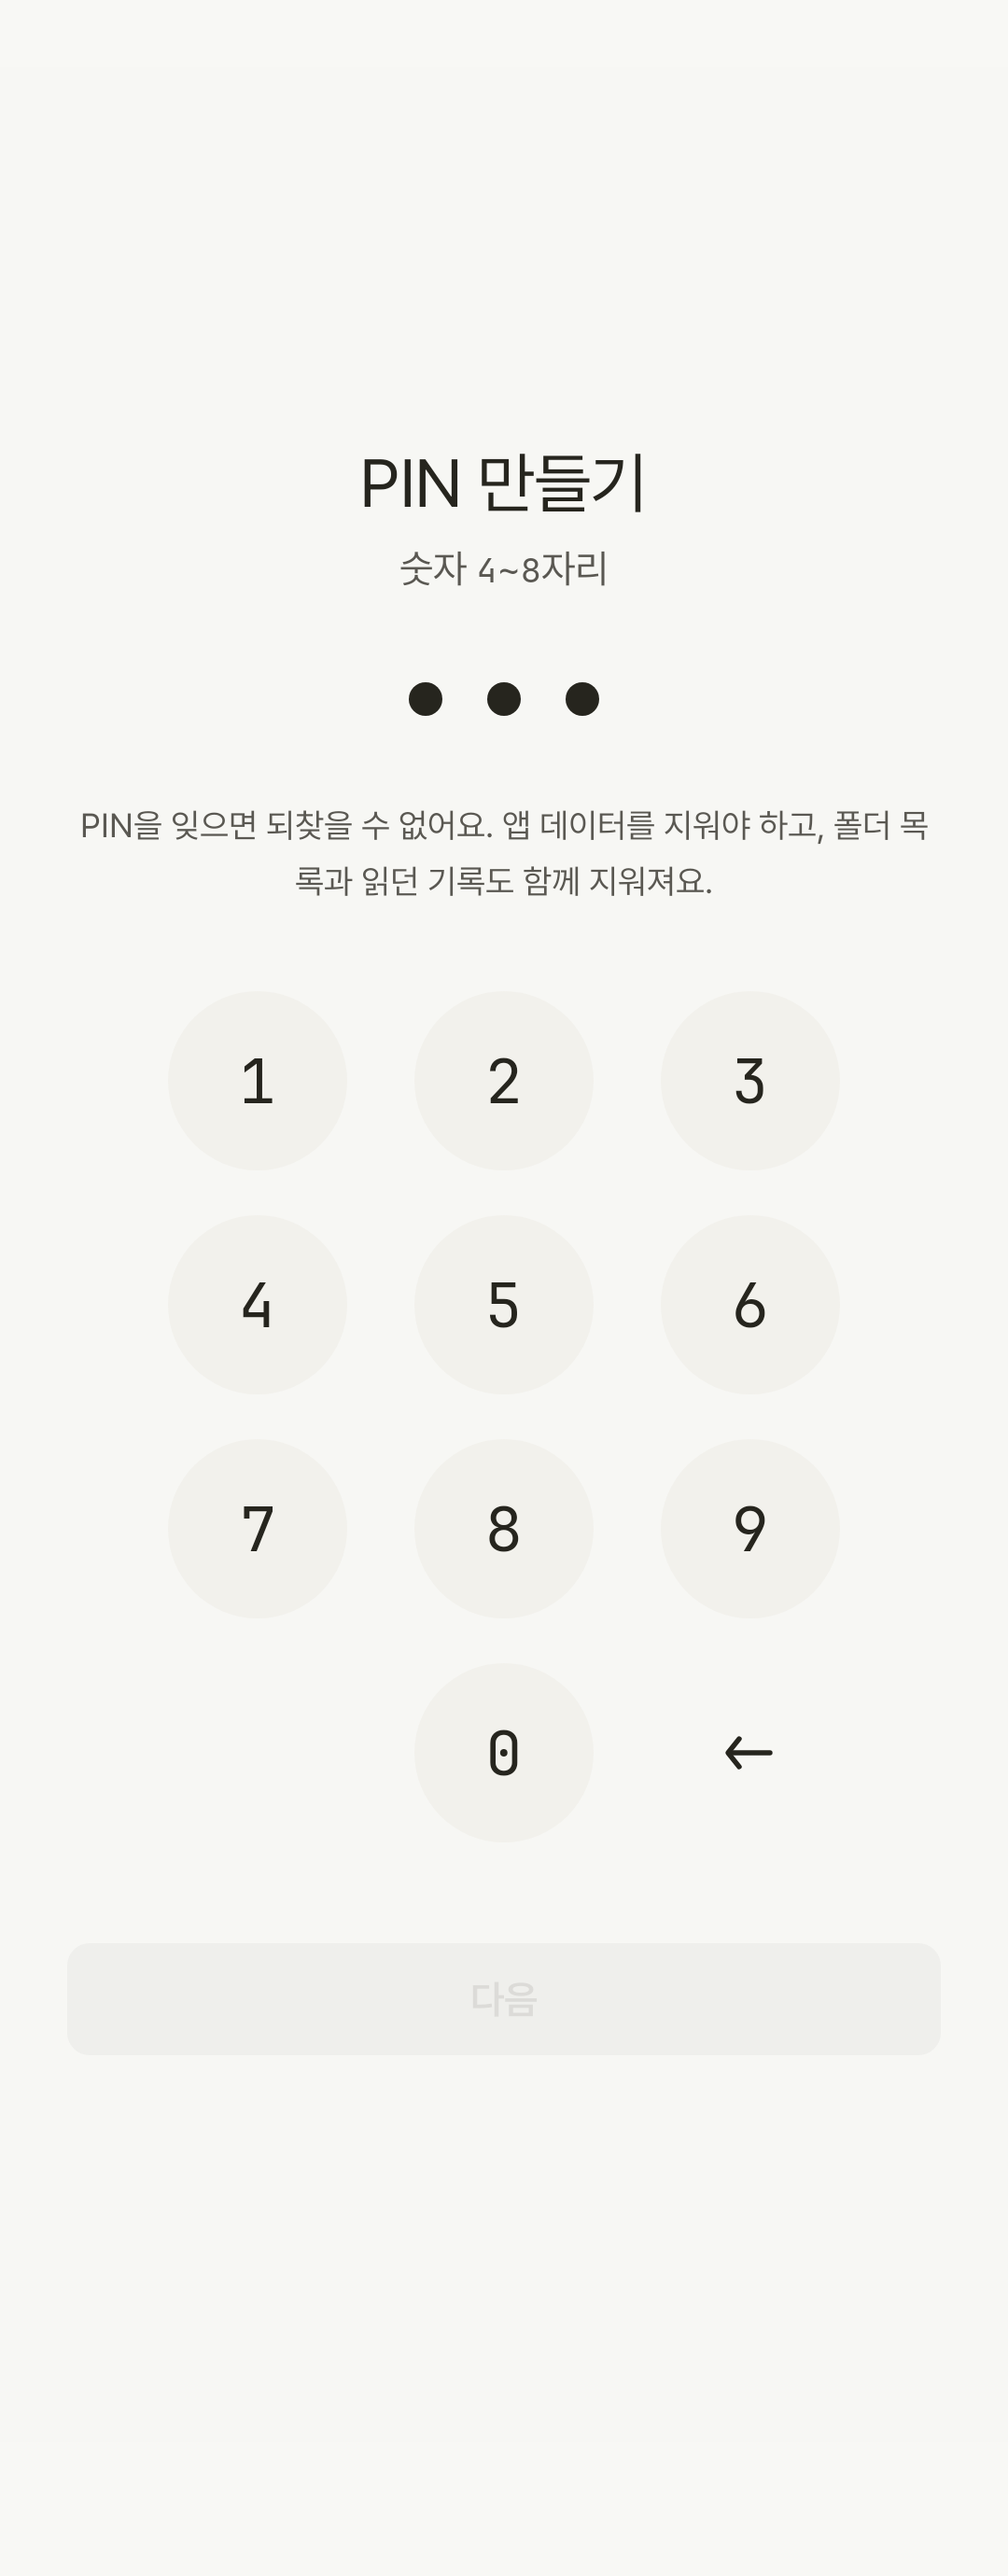
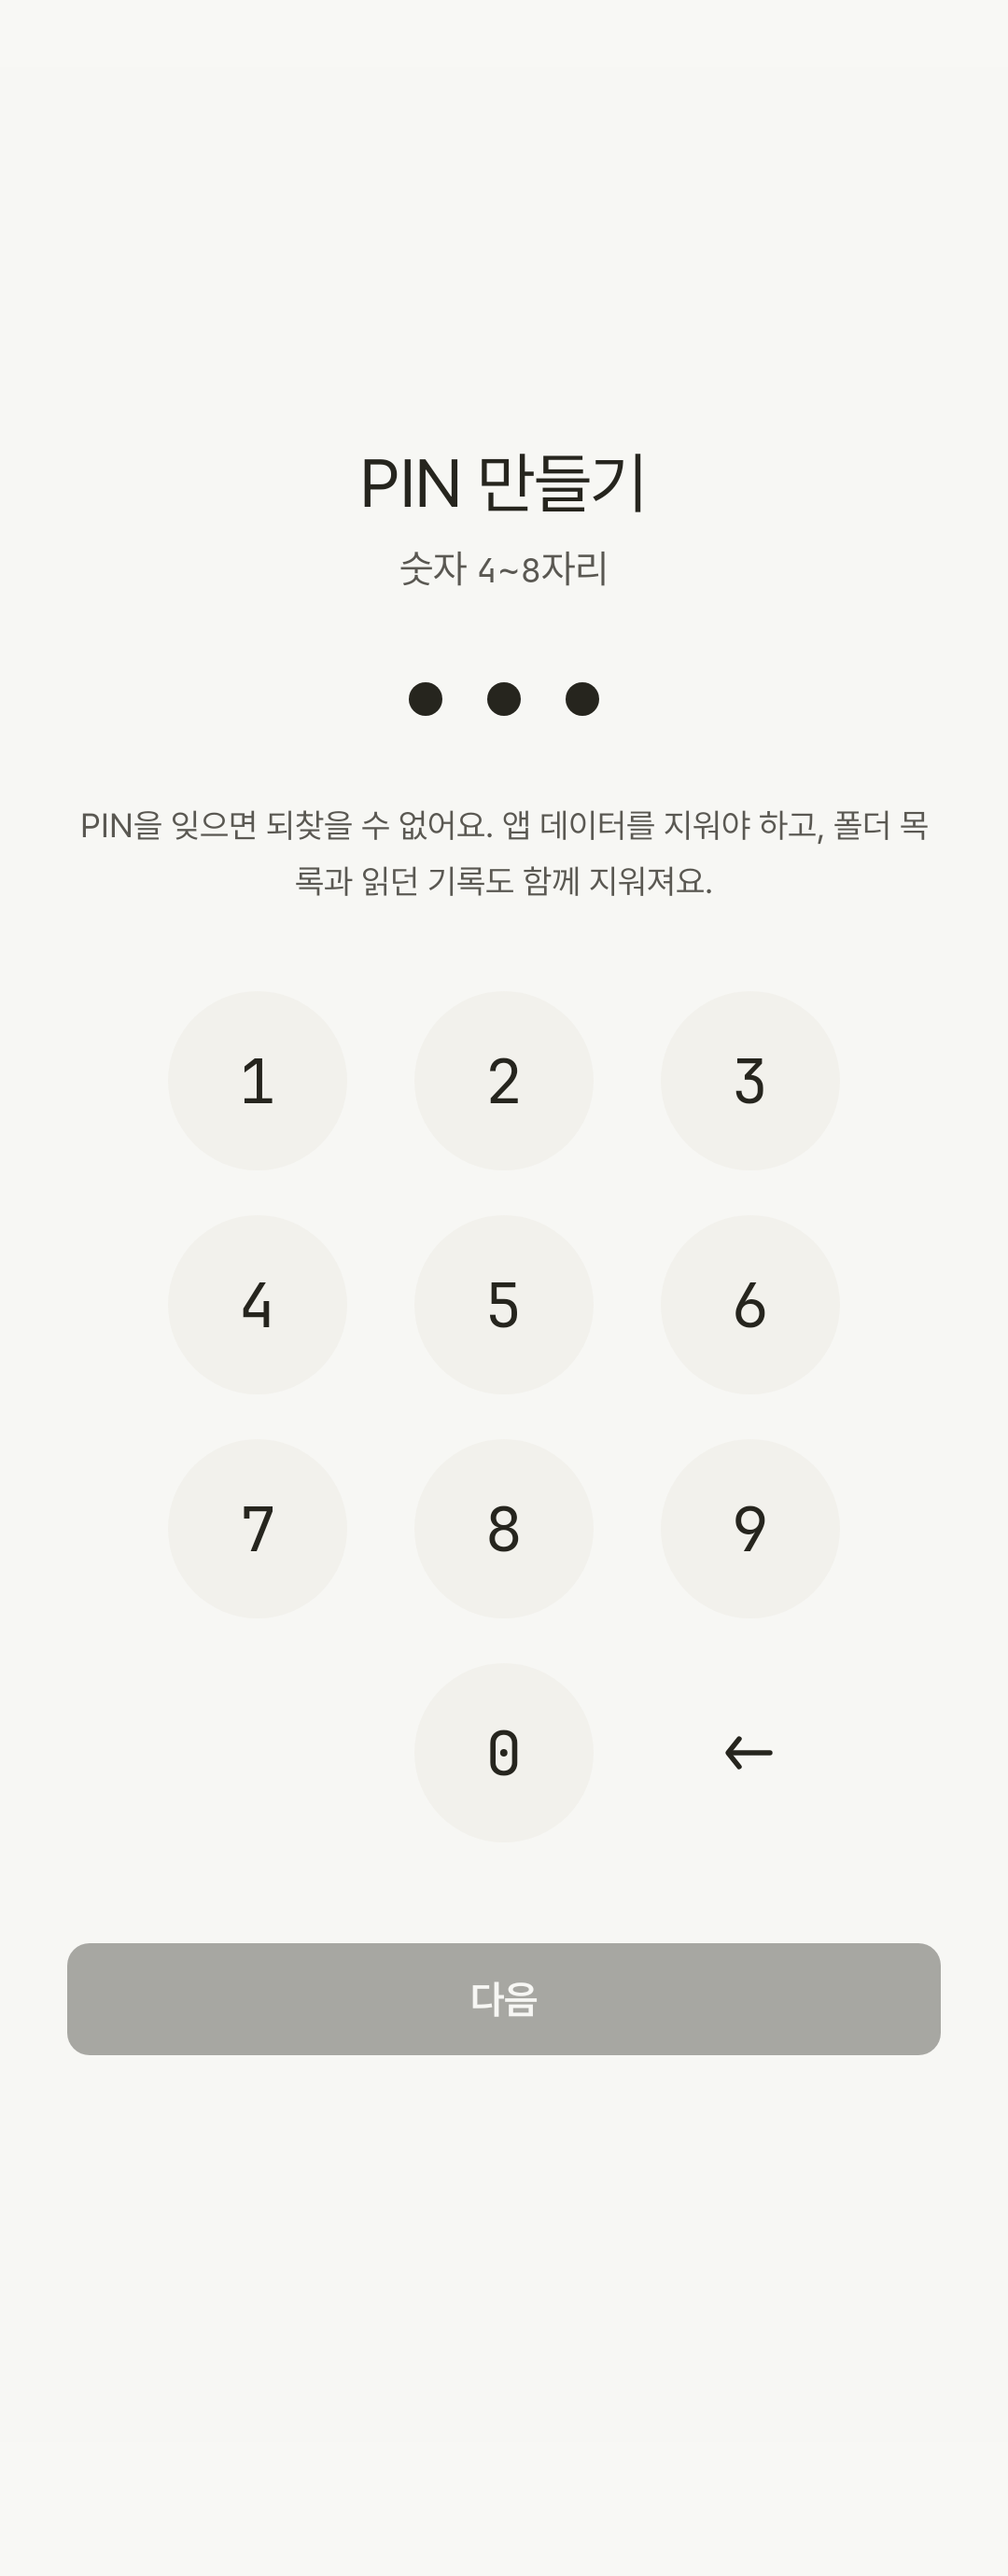
fix(lock): close relock overlay and exempt leaks from review

Changed region(s): [[0.0611, 0.7478, 0.9472, 0.8101]]

diff --git a/app/src/main/java/org/parkjw/apps/pdfbook/MainActivity.kt b/app/src/main/java/org/parkjw/apps/pdfbook/MainActivity.kt
@@ -94,6 +94,11 @@ class MainActivity : ComponentActivity() {
         AppLockProcess.state.onStart(SystemClock.elapsedRealtime())
     }
 
+    override fun onResume() {
+        super.onResume()
+        AppLockProcess.state.onResume()
+    }
+
     override fun onStop() {
         AppLockProcess.state.onStop(isChangingConfigurations, SystemClock.elapsedRealtime())
         if (shouldResetPeekOnStop(isChangingConfigurations)) {
@@ -103,20 +108,30 @@ class MainActivity : ComponentActivity() {
     }
 
     override fun startActivity(intent: Intent, options: Bundle?) {
-        noteExempt(intent)
-        super.startActivity(intent, options)
+        val exempt = noteExempt(intent)
+        try {
+            super.startActivity(intent, options)
+        } catch (error: RuntimeException) {
+            if (exempt) AppLockProcess.state.cancelSystemReturn()
+            throw error
+        }
     }
 
     @Suppress("DEPRECATION")
     override fun startActivityForResult(intent: Intent, requestCode: Int, options: Bundle?) {
-        noteExempt(intent)
-        super.startActivityForResult(intent, requestCode, options)
+        val exempt = noteExempt(intent)
+        try {
+            super.startActivityForResult(intent, requestCode, options)
+        } catch (error: RuntimeException) {
+            if (exempt) AppLockProcess.state.cancelSystemReturn()
+            throw error
+        }
     }
 
-    private fun noteExempt(intent: Intent?) {
-        if (isExemptSystemIntent(intent?.action, intent?.type)) {
-            AppLockProcess.state.expectSystemReturn()
-        }
+    private fun noteExempt(intent: Intent?): Boolean {
+        if (!isExemptSystemIntent(intent?.action, intent?.type)) return false
+        AppLockProcess.state.expectSystemReturn()
+        return true
     }
 
     override fun onCreate(savedInstanceState: Bundle?) {
@@ -129,7 +144,10 @@ class MainActivity : ComponentActivity() {
             val scope = rememberCoroutineScope()
             val lockRepo = remember { LockRepository(context) }
             val lockConfig = lockRepo.config.collectAsState(initial = null).value
-            val biometricAvailable = remember { canAuthenticateBiometric(context) }
+            var biometricAvailable by remember { mutableStateOf(canAuthenticateBiometric(context)) }
+            LifecycleEventEffect(Lifecycle.Event.ON_RESUME) {
+                biometricAvailable = canAuthenticateBiometric(context)
+            }
             val session = AppLockProcess.state
             SyncAppLanguage(
                 ready = settingsState.value != null,
@@ -155,7 +173,9 @@ class MainActivity : ComponentActivity() {
                     color = MaterialTheme.colorScheme.background,
                 ) {
                     SideEffect {
-                        if (lockConfig != null) {
+                        if (lockConfig == null) {
+                            setRecentsScreenshotEnabled(false)
+                        } else {
                             applyRecentsScreenshot(lockConfig) { setRecentsScreenshotEnabled(it) }
                         }
                     }

diff --git a/app/src/test/java/org/parkjw/apps/pdfbook/lock/LockScreensTest.kt b/app/src/test/java/org/parkjw/apps/pdfbook/lock/LockScreensTest.kt
@@ -1,10 +1,12 @@
 package org.parkjw.apps.pdfbook.lock
 
+import androidx.compose.foundation.clickable
 import androidx.compose.material3.Text
 import androidx.compose.runtime.getValue
 import androidx.compose.runtime.mutableStateOf
 import androidx.compose.runtime.saveable.rememberSaveable
 import androidx.compose.runtime.setValue
+import androidx.compose.ui.Modifier
 import androidx.compose.ui.test.assertCountEquals
 import androidx.compose.ui.test.assertIsEnabled
 import androidx.compose.ui.test.assertIsNotEnabled
@@ -95,6 +97,57 @@ class LockScreensTest {
         session.unlock()
         composeRule.waitForIdle()
         composeRule.onNodeWithText("book-uri").assertExists()
+    }
+
+    @Test
+    fun l2_relockRemovesAppFromCompositionAndRestoresSaveable() {
+        val session = AppLockState()
+        session.unlock()
+        val config = LockConfig(mode = AppLockMode.Pin, pinHash = "h", pinSalt = "s", pinLength = 4)
+        composeRule.setContent {
+            PdfBookTheme(themeMode = ThemeMode.Light) {
+                LockGate(
+                    config = config,
+                    session = session,
+                    canAuthenticate = false,
+                    verify = { pin, _ -> pin.fill('\u0000'); PinVerify.Wrong },
+                    onUnlocked = { session.unlock() },
+                    onBack = {},
+                    onBlockedChange = {},
+                ) {
+                    var uri by rememberSaveable { mutableStateOf("first") }
+                    Text(uri, Modifier.clickable { uri = "kept" })
+                }
+            }
+        }
+        composeRule.onNodeWithText("first").performClick()
+        composeRule.onNodeWithText("kept").assertExists()
+        session.onStop(isChangingConfigurations = false, nowElapsedMs = 0L)
+        composeRule.waitForIdle()
+        assertTrue(session.everUnlocked)
+        composeRule.onNodeWithText("kept").assertDoesNotExist()
+        composeRule.onNodeWithText(text(R.string.lock_title)).assertExists()
+        session.unlock()
+        composeRule.waitForIdle()
+        composeRule.onNodeWithText("kept").assertExists()
+    }
+
+    @Test
+    fun l4_fingerprintKeyHiddenWhenBiometricUnavailable() {
+        composeRule.setContent {
+            PdfBookTheme(themeMode = ThemeMode.Light) {
+                LockScreen(
+                    config = LockConfig(mode = AppLockMode.Biometric, pinHash = "h", pinSalt = "s", pinLength = 4),
+                    session = AppLockState(),
+                    canAuthenticate = false,
+                    verify = { pin, _ -> pin.fill('\u0000'); PinVerify.Wrong },
+                    onUnlocked = {},
+                    onBack = {},
+                )
+            }
+        }
+        composeRule.onNodeWithText(text(R.string.lock_title)).assertExists()
+        composeRule.onNodeWithContentDescription(text(R.string.app_lock_biometric)).assertDoesNotExist()
     }
 
     @Test

diff --git a/app/src/main/java/org/parkjw/apps/pdfbook/lock/AppLockState.kt b/app/src/main/java/org/parkjw/apps/pdfbook/lock/AppLockState.kt
@@ -20,7 +20,9 @@ class AppLockState {
         private set
 
     private var exemptPending = false
+    private var exemptStopped = false
     private var exemptStopElapsedMs = 0L
+    private var handledPromptNonce = 0
     private var promptConsumed = false
     private var promptGeneration = 0
     private var signal: CancellationSignal? = null
@@ -34,16 +36,28 @@ class AppLockState {
         exemptPending = true
     }
 
+    fun cancelSystemReturn() {
+        exemptPending = false
+        exemptStopped = false
+    }
+
+    fun onResume() {
+        if (exemptPending && !exemptStopped) cancelSystemReturn()
+    }
+
     fun onStop(isChangingConfigurations: Boolean, nowElapsedMs: Long) {
         cancelPrompt()
-        if (exemptPending) exemptStopElapsedMs = nowElapsedMs
+        if (exemptPending && !isChangingConfigurations) {
+            exemptStopped = true
+            exemptStopElapsedMs = nowElapsedMs
+        }
         if (shouldLockOnStop(isChangingConfigurations, exemptPending)) lockNow()
     }
 
     fun onStart(nowElapsedMs: Long) {
-        if (!exemptPending) return
+        if (!exemptPending || !exemptStopped) return
         val elapsed = (nowElapsedMs - exemptStopElapsedMs).coerceAtLeast(0L)
-        exemptPending = false
+        cancelSystemReturn()
         if (shouldLockOnReturn(elapsed)) lockNow()
     }
 
@@ -63,6 +77,12 @@ class AppLockState {
         promptNonce++
     }
 
+    fun consumePromptRequest(nonce: Int): Boolean {
+        if (nonce == 0 || nonce <= handledPromptNonce) return false
+        handledPromptNonce = nonce
+        return true
+    }
+
     fun nextPromptGeneration(): Int {
         promptGeneration += 1
         return promptGeneration
@@ -71,7 +91,9 @@ class AppLockState {
     fun isPromptCurrent(generation: Int): Boolean = generation == promptGeneration
 
     fun bindSignal(cancellation: CancellationSignal) {
+        val previous = signal
         signal = cancellation
+        if (previous != null && previous !== cancellation) previous.cancel()
     }
 
     fun cancelPrompt() {
@@ -90,6 +112,8 @@ class AppLockState {
 
     internal fun coldLock() {
         HiddenPeek.reset()
+        cancelPrompt()
+        cancelSystemReturn()
         unlocked = false
         everUnlocked = false
         preferKeypad = false
@@ -98,8 +122,8 @@ class AppLockState {
 
     fun resetForTest() {
         coldLock()
-        exemptPending = false
         exemptStopElapsedMs = 0L
+        handledPromptNonce = 0
         promptGeneration = 0
         lockEpoch = 0
         promptNonce = 0

diff --git a/app/src/main/java/org/parkjw/apps/pdfbook/lock/PinEntry.kt b/app/src/main/java/org/parkjw/apps/pdfbook/lock/PinEntry.kt
@@ -64,7 +64,7 @@ fun LockScreen(
         awaitBiometricPrompt(activity, session, promptTitle, usePin, onUnlocked) { session.showKeypad() }
     }
     LaunchedEffect(nonce) {
-        if (nonce == 0 || activity == null) return@LaunchedEffect
+        if (activity == null || !session.consumePromptRequest(nonce)) return@LaunchedEffect
         awaitBiometricPrompt(activity, session, promptTitle, usePin, onUnlocked) { session.showKeypad() }
     }
     PinEntry(
@@ -74,7 +74,7 @@ fun LockScreen(
         failedAttempts = config.failedAttempts,
         lockoutUntilEpochMs = config.lockoutUntilEpochMs,
         showLockIcon = true,
-        showFingerprint = mode == AppLockMode.Biometric,
+        showFingerprint = mode == AppLockMode.Biometric && canAuthenticate,
         onFingerprint = { session.requestPrompt() },
         verify = verify,
         onSuccess = onUnlocked,
@@ -110,7 +110,7 @@ fun ConfirmPinScreen(
             failedAttempts = config.failedAttempts,
             lockoutUntilEpochMs = config.lockoutUntilEpochMs,
             showLockIcon = true,
-            showFingerprint = config.mode == AppLockMode.Biometric,
+            showFingerprint = config.mode == AppLockMode.Biometric && canAuthenticate,
             onFingerprint = onRequestBiometric,
             verify = verify,
             onSuccess = onSuccess,
@@ -159,18 +159,22 @@ private fun PinEntry(
         buffer.clear()
         busy = true
         scope.launch {
-            when (verify(pin, now())) {
-                PinVerify.Success -> onSuccess()
-                PinVerify.Wrong -> {
-                    wrong = true
-                    clock = now()
+            try {
+                when (verify(pin, now())) {
+                    PinVerify.Success -> onSuccess()
+                    PinVerify.Wrong -> {
+                        wrong = true
+                        clock = now()
+                    }
+                    is PinVerify.Waiting -> {
+                        wrong = false
+                        clock = now()
+                    }
                 }
-                is PinVerify.Waiting -> {
-                    wrong = false
-                    clock = now()
-                }
+            } finally {
+                pin.fill('\u0000')
+                busy = false
             }
-            busy = false
         }
     }
     PinPadScreen(

diff --git a/app/src/test/java/org/parkjw/apps/pdfbook/lock/LockPolicyTest.kt b/app/src/test/java/org/parkjw/apps/pdfbook/lock/LockPolicyTest.kt
@@ -96,6 +96,50 @@ class LockPolicyTest {
     }
 
     @Test
+    fun l3_exemptCancelledWhenResumedWithoutStop() {
+        val state = AppLockState()
+        state.unlock()
+        state.expectSystemReturn()
+        state.onResume()
+        assertFalse(state.pendingExempt())
+        state.onStop(isChangingConfigurations = false, nowElapsedMs = 0L)
+        assertFalse(state.unlocked)
+    }
+
+    @Test
+    fun l3_failedLaunchCancelsExempt() {
+        val state = AppLockState()
+        state.unlock()
+        state.expectSystemReturn()
+        state.cancelSystemReturn()
+        state.onStop(isChangingConfigurations = false, nowElapsedMs = 0L)
+        assertFalse(state.unlocked)
+    }
+
+    @Test
+    fun l3_configChangeKeepsExemptUntilRealReturn() {
+        val state = AppLockState()
+        state.unlock()
+        state.expectSystemReturn()
+        state.onStop(isChangingConfigurations = true, nowElapsedMs = 0L)
+        state.onStart(1_000L)
+        assertTrue(state.pendingExempt())
+        state.onStop(isChangingConfigurations = false, nowElapsedMs = 2_000L)
+        state.onStart(2_000L + SYSTEM_RETURN_GRACE_MS)
+        assertTrue(state.unlocked)
+        assertFalse(state.pendingExempt())
+    }
+
+    @Test
+    fun l4_promptRequestIsConsumedOnce() {
+        val state = AppLockState()
+        assertFalse(state.consumePromptRequest(state.promptNonce))
+        state.requestPrompt()
+        assertTrue(state.consumePromptRequest(state.promptNonce))
+        assertFalse(state.consumePromptRequest(state.promptNonce))
+    }
+
+    @Test
     fun l3_configChangeDoesNotLock() {
         val state = AppLockState()
         state.unlock()

diff --git a/app/src/main/java/org/parkjw/apps/pdfbook/lock/LockGate.kt b/app/src/main/java/org/parkjw/apps/pdfbook/lock/LockGate.kt
@@ -5,7 +5,7 @@ import androidx.compose.foundation.layout.fillMaxSize
 import androidx.compose.runtime.Composable
 import androidx.compose.runtime.SideEffect
 import androidx.compose.ui.Modifier
-import androidx.compose.ui.semantics.clearAndSetSemantics
+import androidx.compose.runtime.saveable.rememberSaveableStateHolder
 
 @Composable
 fun LockGate(
@@ -25,14 +25,11 @@ fun LockGate(
     SideEffect { onBlockedChange(config == null || locked) }
     if (config == null) return
     val showApp = !locking || everUnlocked
+    val saveable = rememberSaveableStateHolder()
     Box(Modifier.fillMaxSize()) {
-        if (showApp) {
-            Box(
-                Modifier
-                    .fillMaxSize()
-                    .then(if (locked) Modifier.clearAndSetSemantics {} else Modifier),
-            ) {
-                app()
+        if (showApp && !locked) {
+            Box(Modifier.fillMaxSize()) {
+                saveable.SaveableStateProvider(APP_STATE_KEY) { app() }
             }
         }
         if (locked) {
@@ -47,3 +44,5 @@ fun LockGate(
         }
     }
 }
+
+private const val APP_STATE_KEY = "app"

diff --git a/app/src/main/java/org/parkjw/apps/pdfbook/ui/theme/ButtonColors.kt b/app/src/main/java/org/parkjw/apps/pdfbook/ui/theme/ButtonColors.kt
@@ -26,6 +26,8 @@ fun pdfBookIconButtonColors(
 fun pdfBookInkButtonColors() = ButtonDefaults.buttonColors(
     containerColor = MaterialTheme.extendedColors.inkButton,
     contentColor = MaterialTheme.extendedColors.onInkButton,
+    disabledContainerColor = MaterialTheme.extendedColors.inkButton,
+    disabledContentColor = MaterialTheme.extendedColors.onInkButton,
 )
 
 @Composable
